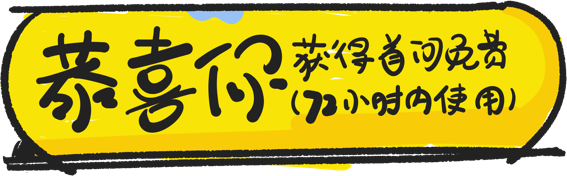
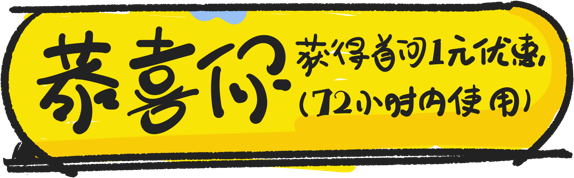
首页免费活动图片,文案替换

diff --git a/asset/views/Home.vue b/asset/views/Home.vue
@@ -50,7 +50,7 @@
       <div class="freeAskWrapper" v-show="couponExpireAtText" @tap.stop.prevent="$router.pushPlus('/ask')">
         <div class="freeAsk mui-navigate-right">
           <div class="icon"></div>
-          <div class="text">你的首问免费机会还剩 <div v-html="couponExpireAtText"></div></div>
+          <div class="text">你的首问1元特惠还剩 <div v-html="couponExpireAtText"></div></div>
         </div>
       </div>
 
